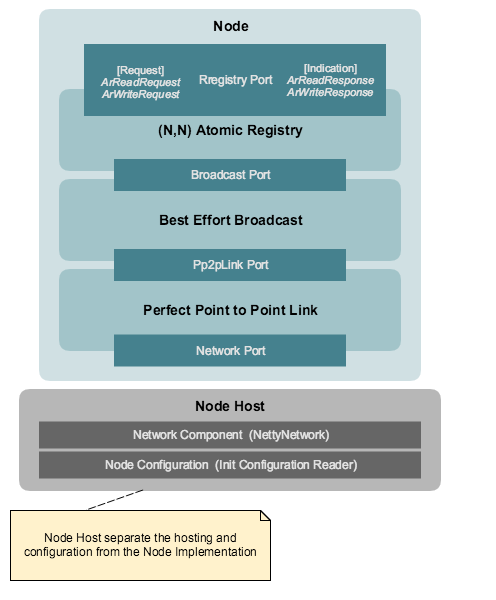
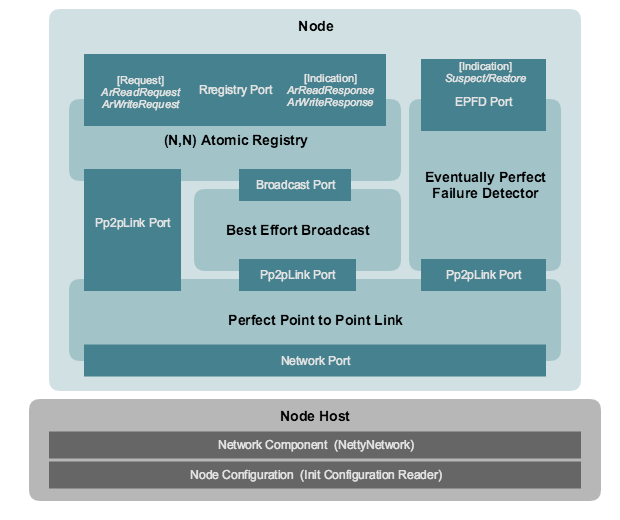
update design overview diagram

diff --git a/final-report/report.tex b/final-report/report.tex
@@ -33,6 +33,8 @@ The following figure depicts the overall design of the system.
 
 {\centering\includegraphics[scale = 0.5]{./images/design_overview.png}\par}
 
+Node is the primary Distrbuted component in the system. It intercepts PUT, GET requests over Network component and directs them over (N,N) Atomic Registry subcomponent. \textit{Node Host} component is responsible for the initiation of Node instance according to deployment properties (Node ip/port, Group membership id etc.) given in node configurations file.
+
 \subsection{Node Topology}
 
 {\centering\includegraphics[scale = 0.6]{./images/node_setup.png}\par}
@@ -180,6 +182,10 @@ Failed writers in \textit{NNAR} should be appeared as it was never invoked or co
 \textit{NNAR} in this project, is improved to work with value of hash dictionary. It allow Read/Write on multiple key values simultaneously, it should not block the Read or Write operation with different keys. This is verified in \textit{register/MultiKeyReadWriteScenario.java}, for similar executions as the following.
 
 {\centering\includegraphics[scale = 0.5]{./images/mkey_writes.png}\par}
+
+\subsection{Node}
+
+Node compromises it's distributed system properties of its subcomponents. Node topology and its main events, GET/PUT are verfied in the scenario \textit{NodeStructureScenario.java} also with a set of hosted nodes and a client component. Static setup of Nodes for testing is hanlded within \textit{config.Grid.java and config.ReplicationGroup.java}. 
 
 
 \section{Conclusions}
